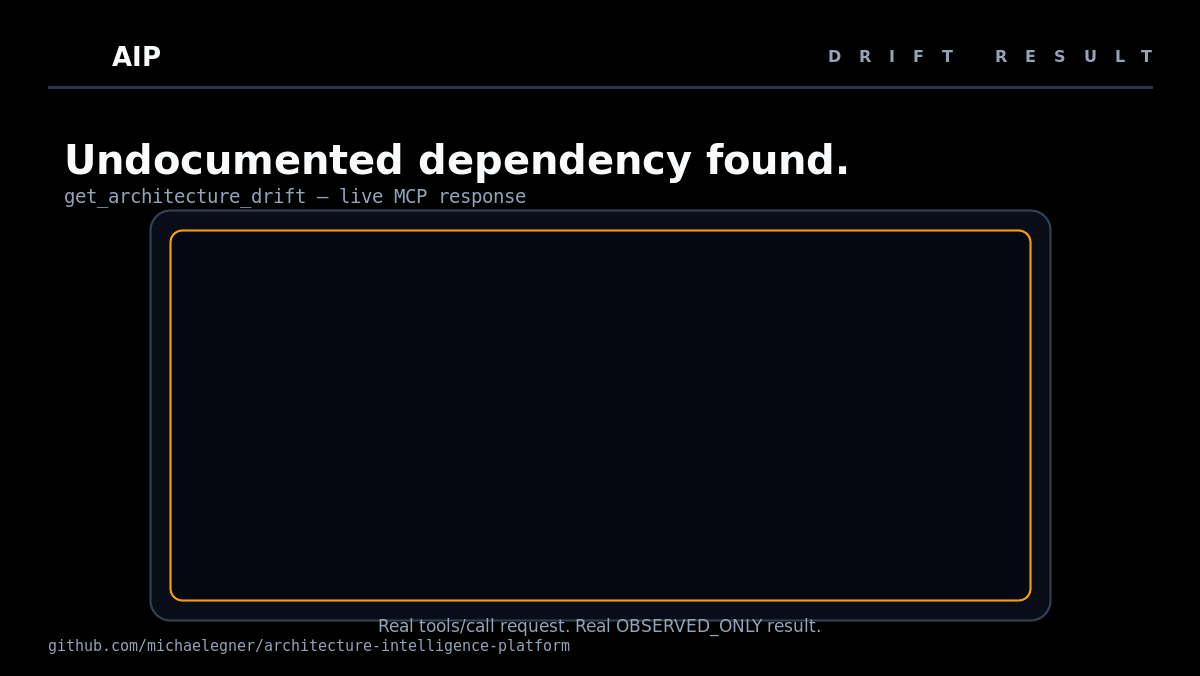
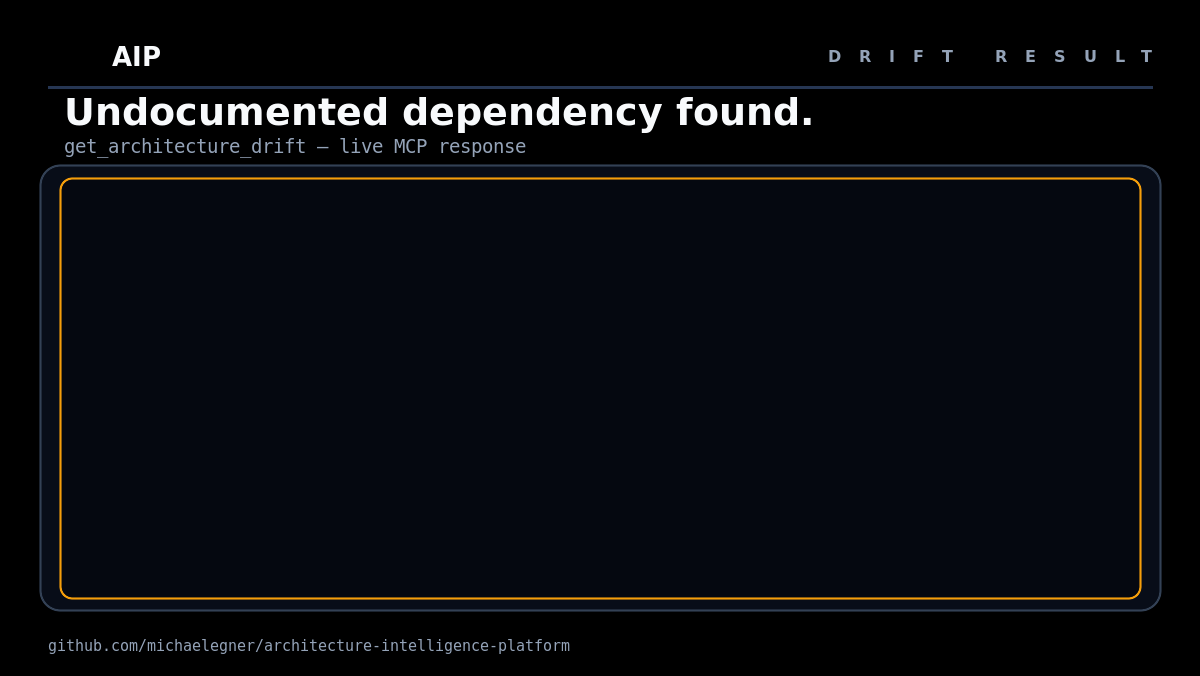
Fix cramped OBSERVED_ONLY badge and tiny drift/evidence text
Two readability issues in the new evergreen demo:
- The OBSERVED_ONLY badge in scene 1 was narrower than its own text,
  making it look clipped. Widen it and recenter under the node.
- The composited real captures in scenes 2-3 were nearly unreadable:
  the panel scaled the full ~1700x850px terminal box down to 860x370,
  more than halving the source font size. Enlarge the panel to use
  most of the frame (1080x420) and crop tighter into just the decisive
  JSON block (the claims array for drift, the first two evidence
  entries for evidence) instead of the whole terminal box, dropping
  the less essential header line in each. Net effect is close to 2x
  the previous composited text size. Also drops the now-redundant
  bottom caption line to make room.

Claude-Session: https://claude.ai/code/session_01Ha1WiCqTwb7KpLLeeFdcC9

Changed region(s): [[0.0308, 0.1243, 0.9558, 0.932]]

diff --git a/video/readme-demo/render.py b/video/readme-demo/render.py
@@ -22,11 +22,13 @@ PURPLE = "#8B5CF6"
 RED = "#FB7185"
 
 # Placeholder panel geometry -- render-video.sh composites the real Tella captures into
-# this exact rectangle on scenes 02 and 03. Keep these two definitions in sync.
-PANEL_X = 170
-PANEL_Y = 230
-PANEL_W = 860
-PANEL_H = 370
+# this exact rectangle on scenes 02 and 03. Keep these two definitions in sync. Sized as
+# large as the layout allows (and cropped tight in render-video.sh) so the composited
+# terminal text reads at a legible size instead of shrinking to a sliver of the frame.
+PANEL_X = 60
+PANEL_Y = 178
+PANEL_W = 1080
+PANEL_H = 420
 
 ROOT = Path(__file__).resolve().parent
 SCENES_DIR = ROOT / "scenes"
@@ -161,21 +163,20 @@ def scene_mismatch() -> str:
             node(620, 300, 28, "product-service", BLUE),
             node(620, 490, 28, "payment-service", BLUE),
             node(950, 400, 28, "LegacyPricingService", AMBER),
-            badge("OBSERVED_ONLY", 860, 500, 180, AMBER),
+            badge("OBSERVED_ONLY", 840, 500, 220, AMBER),
         ]
     )
     return finish(parts)
 
 
-def capture_scene(section: str, title: str, subtitle: str, caption: str, accent: str) -> str:
+def capture_scene(section: str, title: str, subtitle: str, accent: str) -> str:
     parts = base(section)
     parts.extend(
         [
-            text(title, 64, 174, 40, weight=700),
-            text(subtitle, 64, 203, 19, fill=MUTED, family="DejaVu Sans Mono"),
-            rect(150, 210, 900, 410, fill="#080D18", stroke="#334155", radius=20),
+            text(title, 64, 125, 38, weight=700),
+            text(subtitle, 64, 153, 19, fill=MUTED, family="DejaVu Sans Mono"),
+            rect(40, 165, 1120, 445, fill="#080D18", stroke="#334155", radius=20),
             rect(PANEL_X, PANEL_Y, PANEL_W, PANEL_H, fill="#050810", stroke=accent, radius=12),
-            text(caption, 600, 632, 17, fill=MUTED, anchor="middle"),
         ]
     )
     return finish(parts)
@@ -186,7 +187,6 @@ def scene_drift() -> str:
         "Drift result",
         "Undocumented dependency found.",
         "get_architecture_drift — live MCP response",
-        "Real tools/call request. Real OBSERVED_ONLY result.",
         AMBER,
     )
 
@@ -196,7 +196,6 @@ def scene_evidence() -> str:
         "Evidence drill-down",
         "Every claim is traceable to evidence.",
         "get_evidence — live MCP response",
-        "Real evidence resolution at the same snapshot.",
         TEAL,
     )
 
